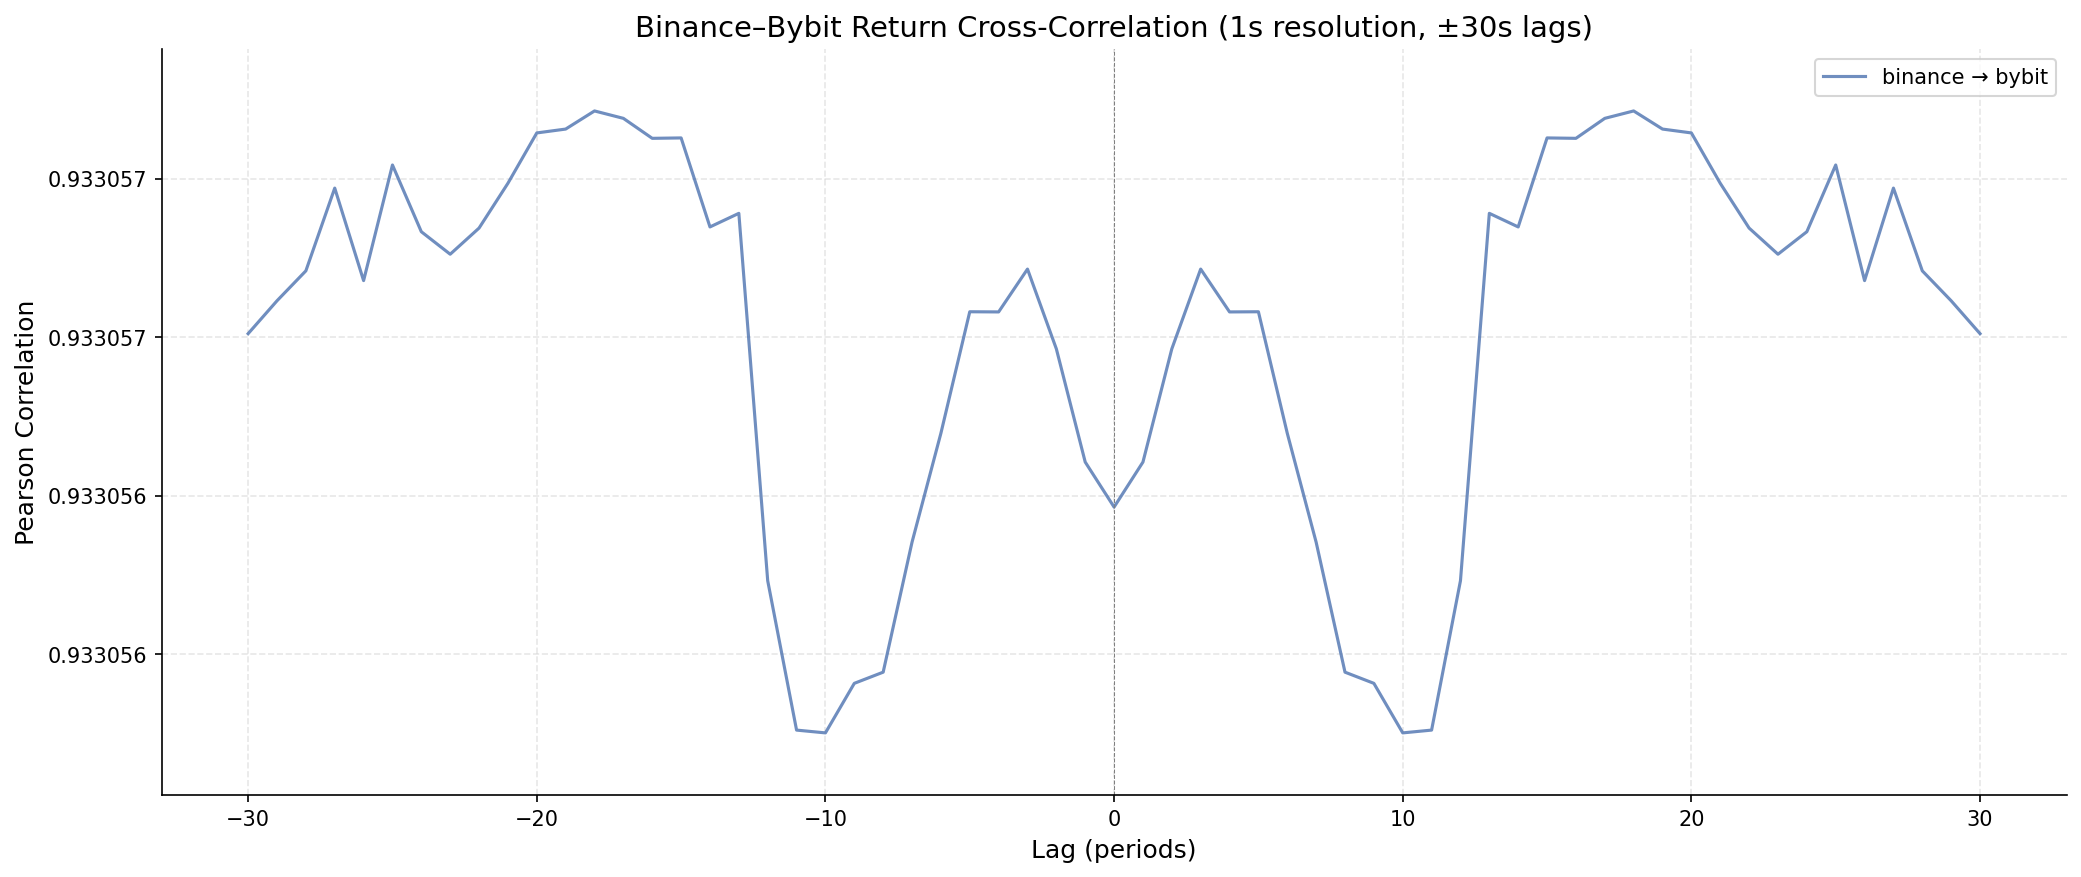
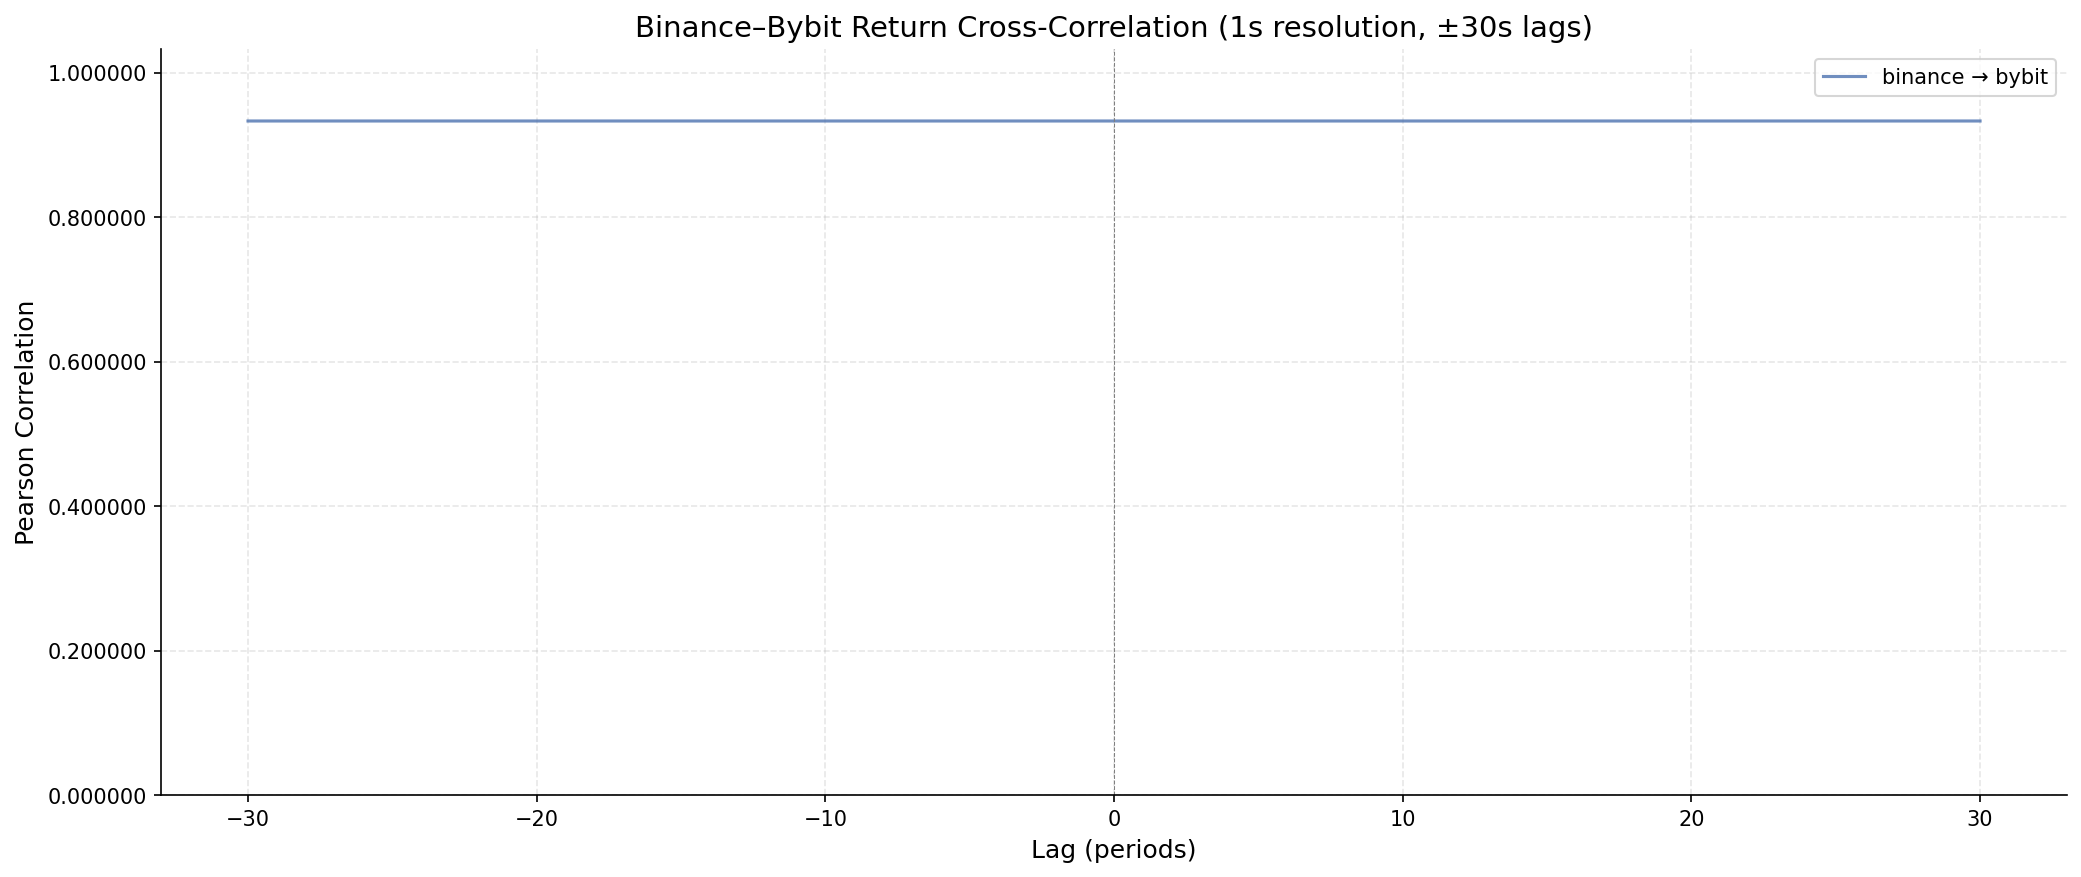
Updated to correct plot axis

diff --git a/src/visualisation.py b/src/visualisation.py
@@ -141,6 +141,7 @@ from matplotlib.ticker import FormatStrFormatter
 def plot_cross_correlation(
     xcorr_df: pd.DataFrame,
     title: str = "Cross-Venue Return Correlation by Lag",
+    zero_the_axis = False,
 ) -> plt.Figure:
     """Plot cross-correlation between venue pairs at various lags.
 
@@ -165,10 +166,13 @@ def plot_cross_correlation(
 
     ax.ticklabel_format(axis="y", style="plain", useOffset=False)
     ax.yaxis.set_major_formatter(FormatStrFormatter("%.6f"))
-
-    ymin, ymax = xcorr_df.min().min(), xcorr_df.max().max()
-    pad = 0.1 * (ymax - ymin)
-    ax.set_ylim(ymin - pad, ymax + pad)
+    if zero_the_axis:
+        ymin, ymax = xcorr_df.min().min(), xcorr_df.max().max()
+        ax.set_ylim(0, ymax + 0.1)
+    else:
+        ymin, ymax = xcorr_df.min().min(), xcorr_df.max().max()
+        pad = 0.1 * (ymax - ymin)
+        ax.set_ylim(ymin - pad, ymax + pad)
 
     ax.set_title(title)
     ax.set_xlabel("Lag (periods)")
